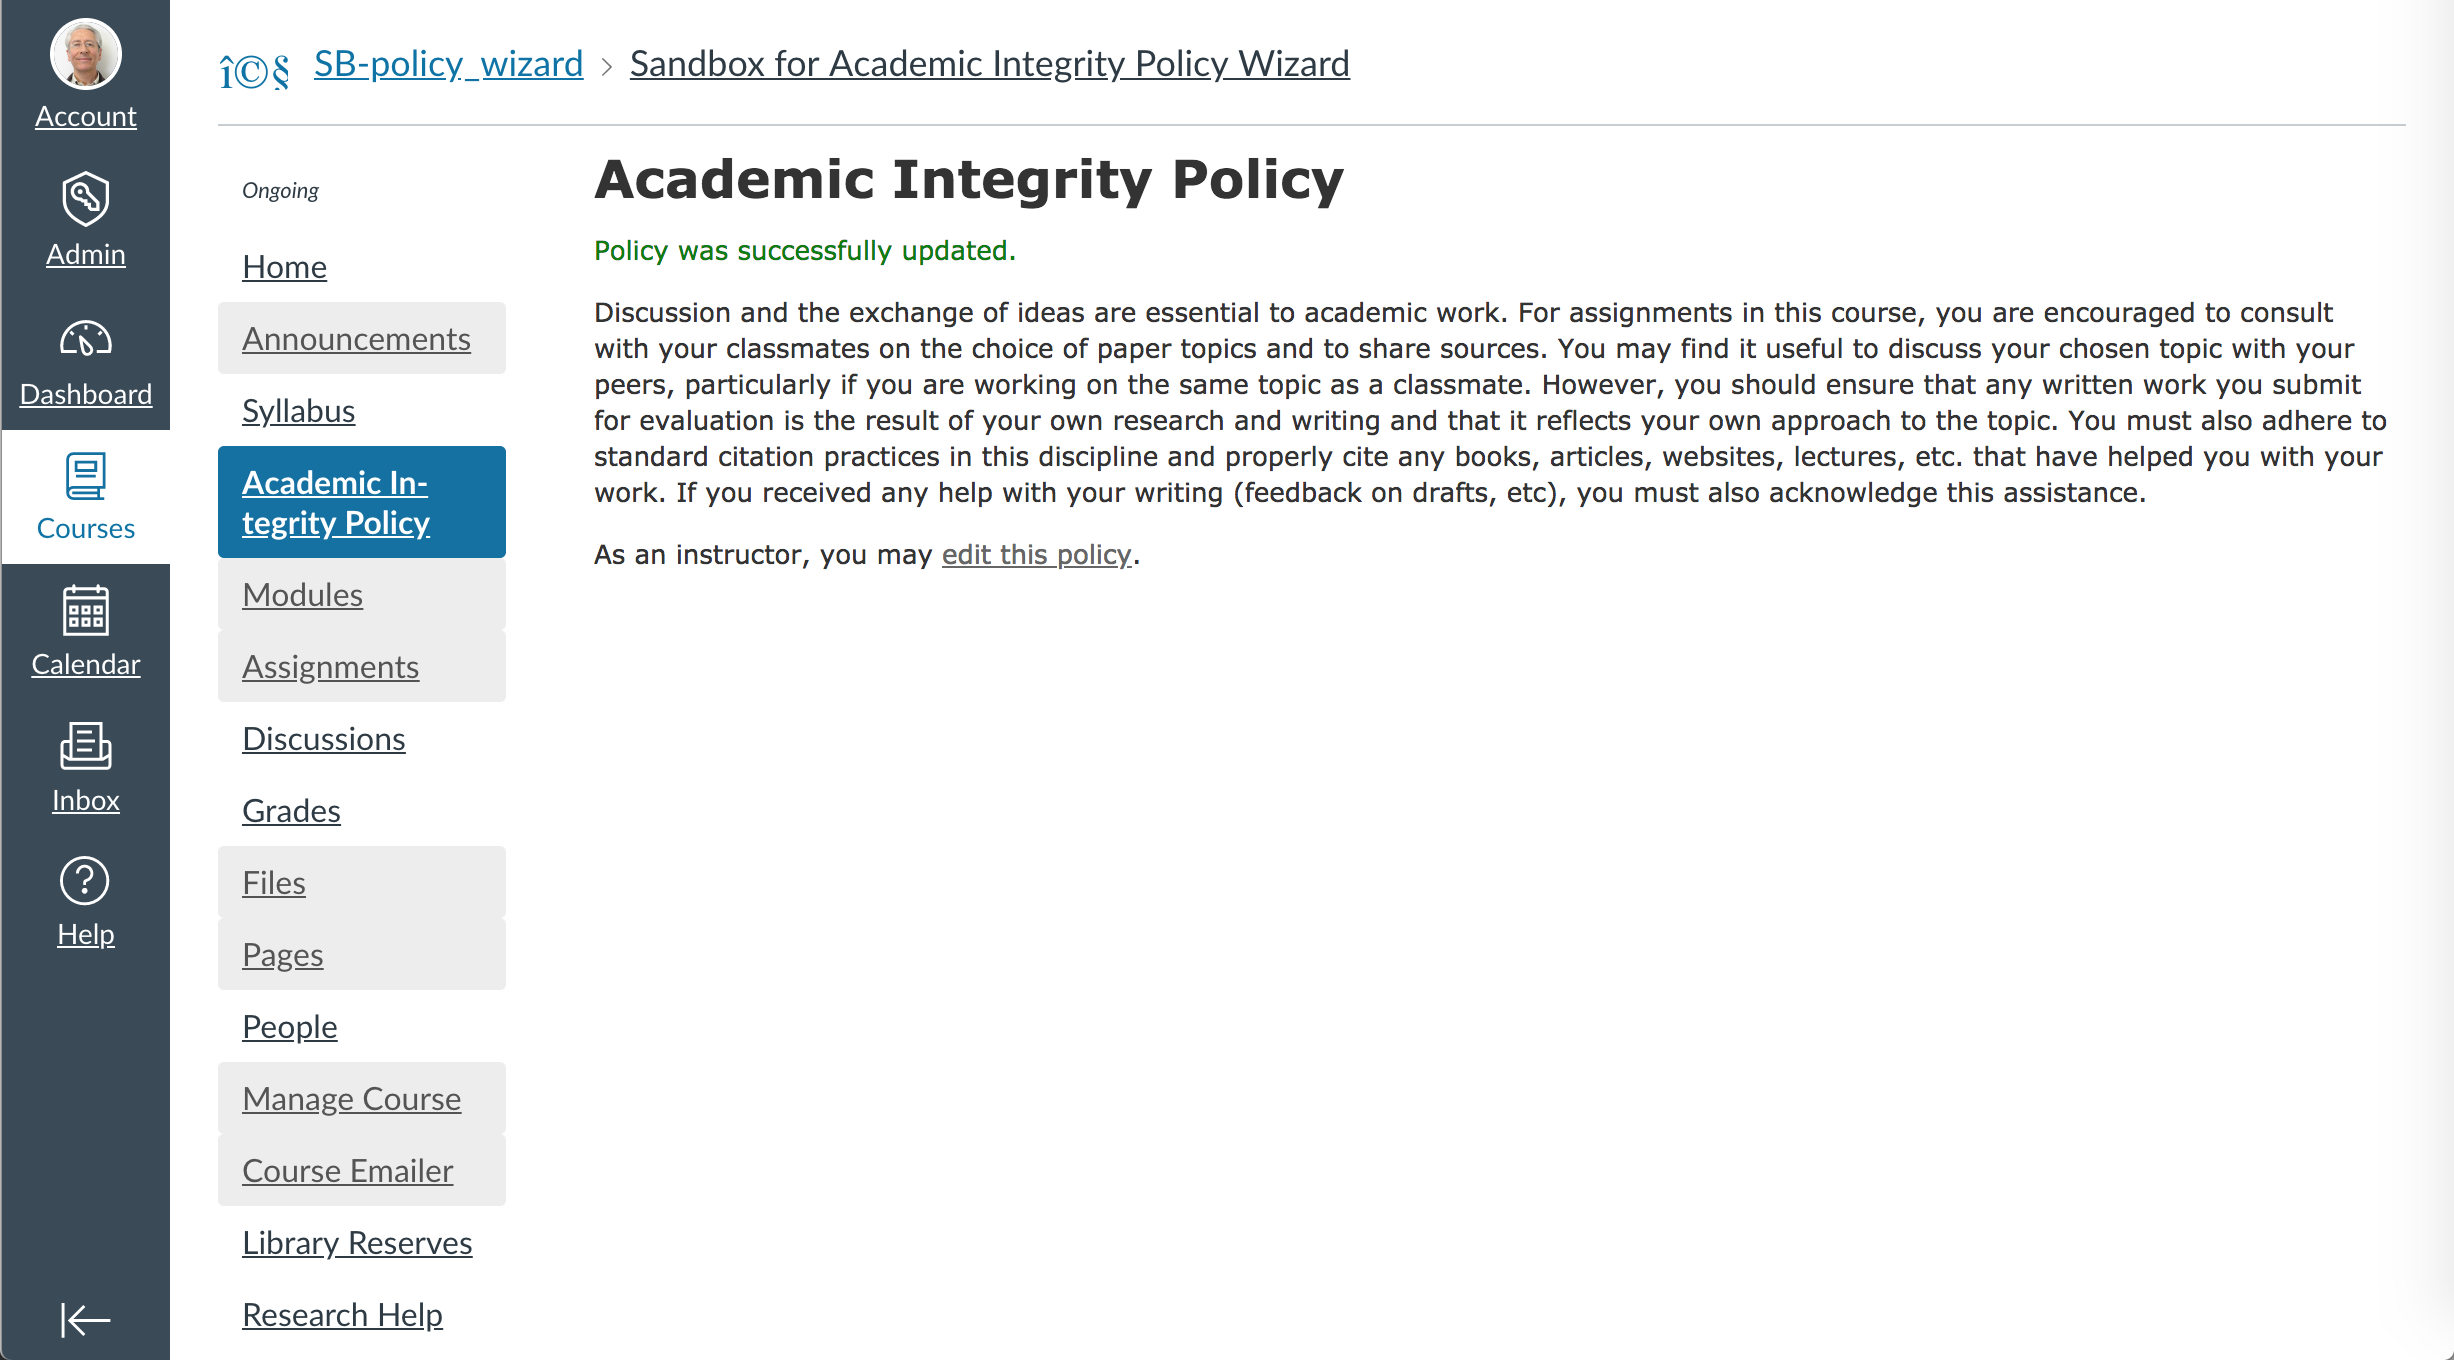
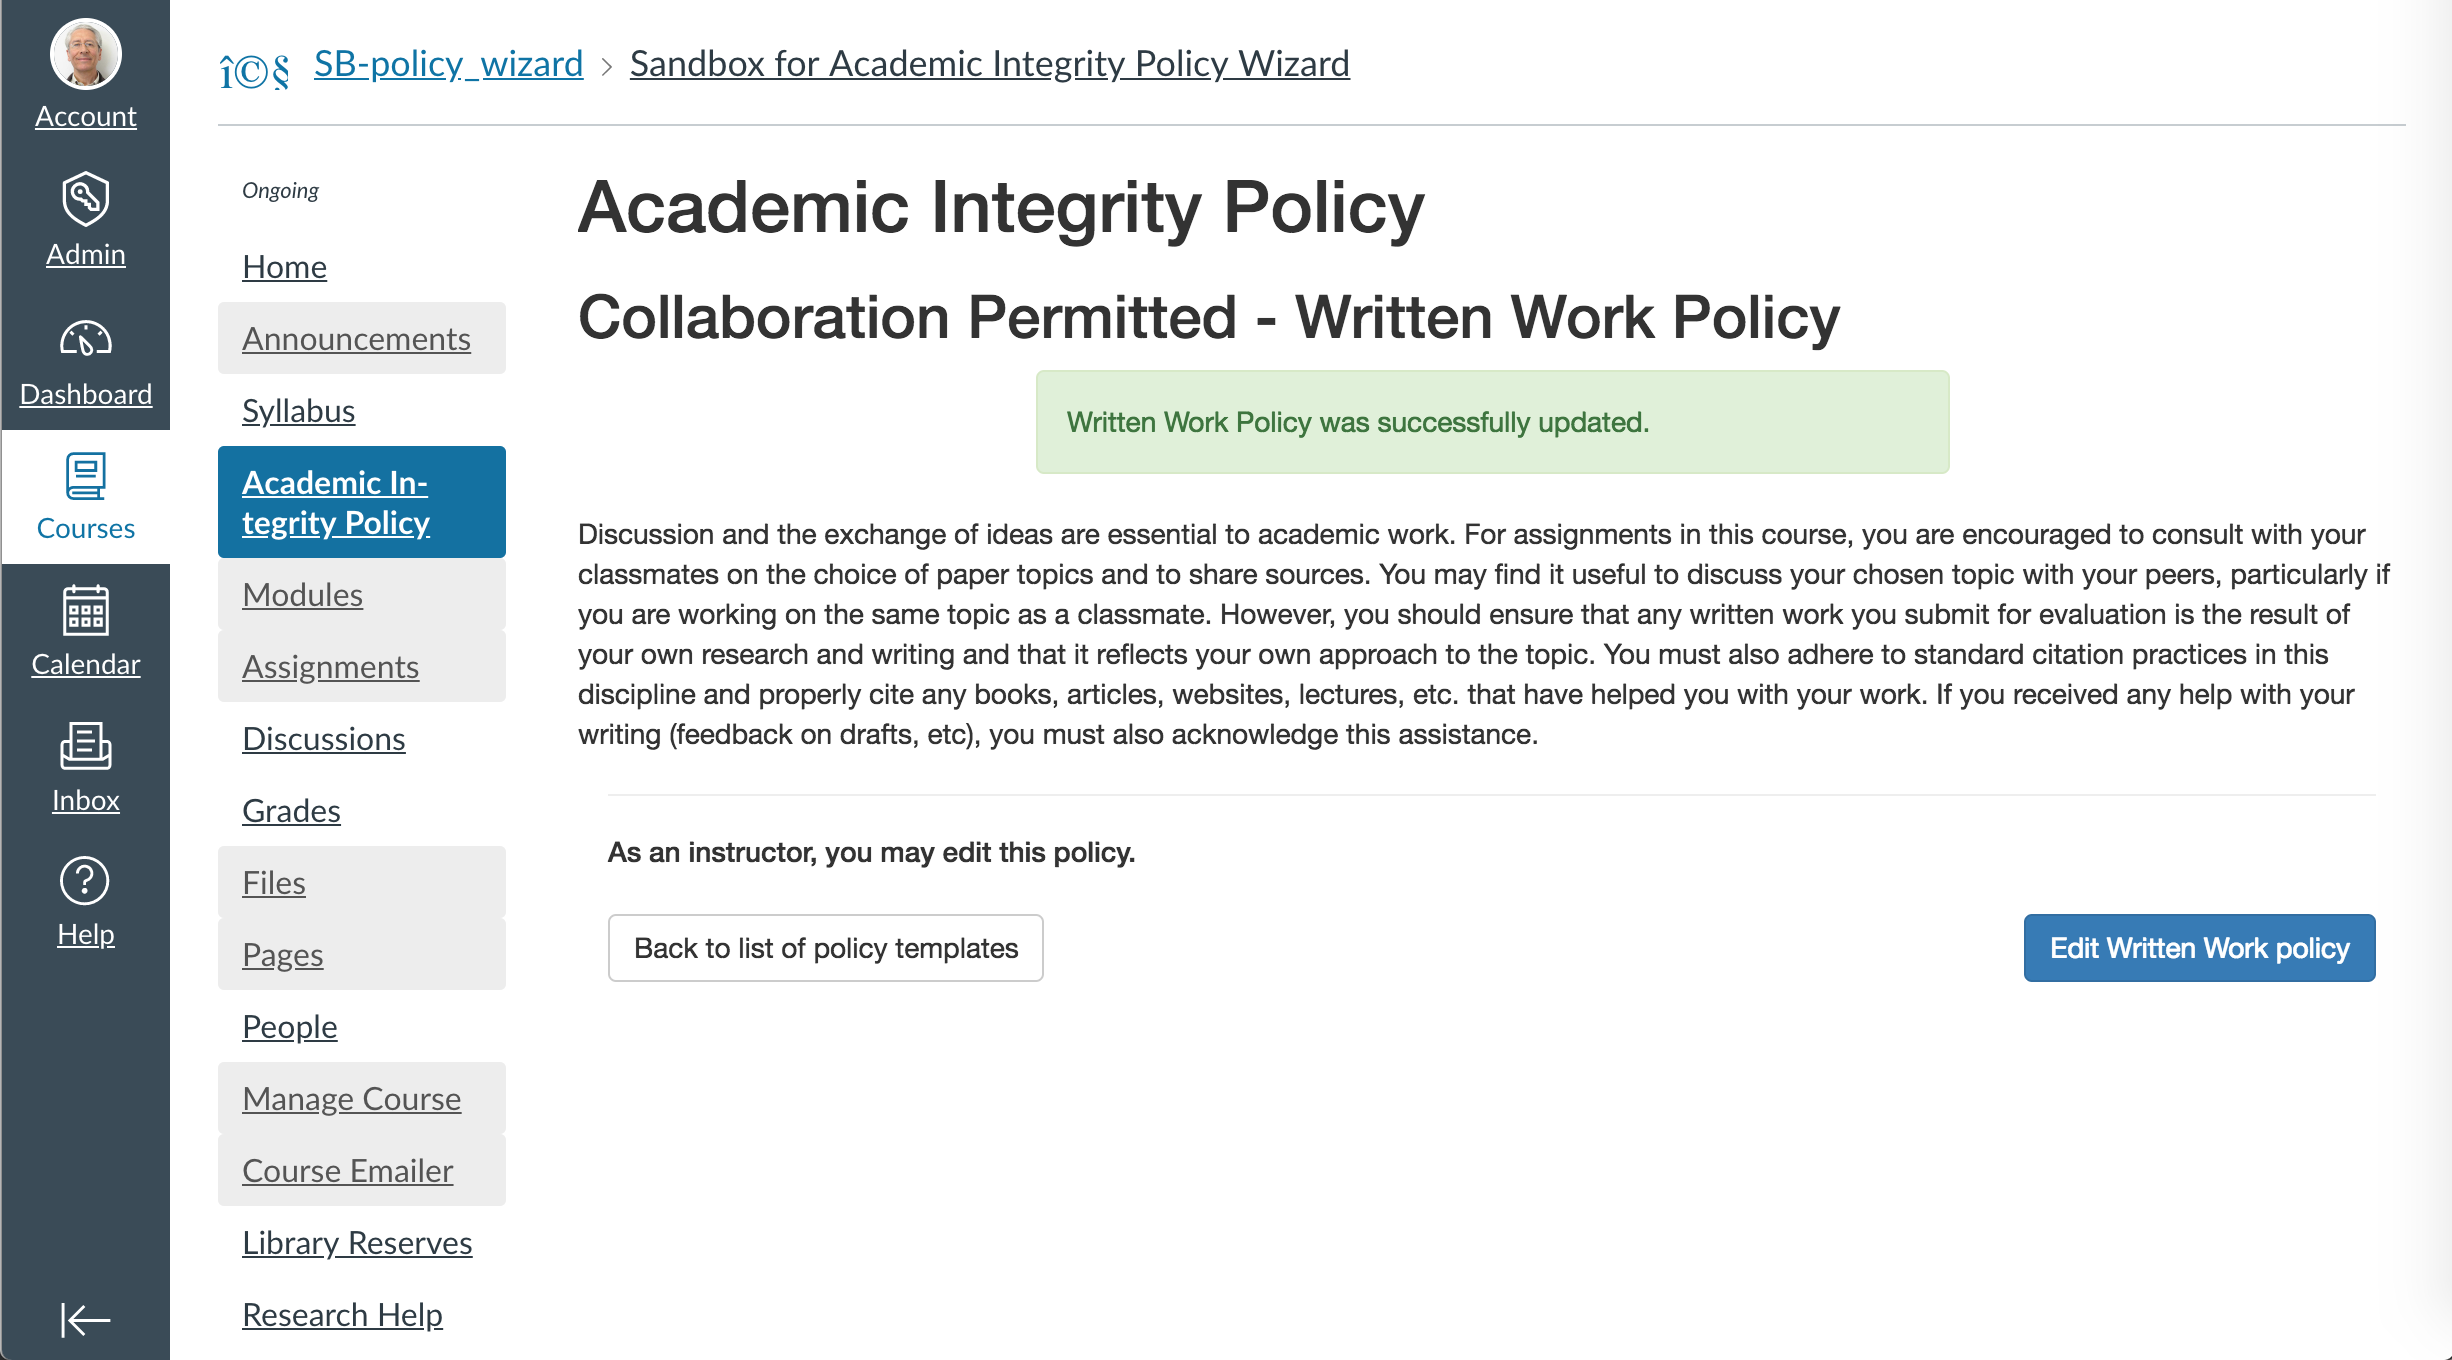
Add files via upload
Screen capture and UI code of proposed interface for published templates

diff --git a/ui/AcademicIntegrityPolicy_published/index.html b/ui/AcademicIntegrityPolicy_published/index.html
@@ -1,10 +1,17 @@
-
+<!--There are 7 UI comments on this commit-->
 <html>
     <head>
         <title>Academic Integrity Policy</title>
+
         <link data-turbolinks-track="true" href="/assets/application-f2426e026c85d83f4d4ec5be1c26ee81.css" media="all" rel="stylesheet">
+
+<!--UI comment #1 - I am leaving here the scripts and meta tags from Canvas. Aside from the Bootstrap and Fontawesome links I added, I am bnot sure we need these what I added-->
         <script data-turbolinks-track="true" src="/assets/application-2671af1f4fe139755faa78265733f653.js"></script>
         <script src="/js/tinymce/tinymce.min.js" type="text/javascript"></script>
+<!-- UI comment #2 - Font Awesome-->
+        <link href="https://maxcdn.bootstrapcdn.com/font-awesome/4.7.0/css/font-awesome.min.css" rel="stylesheet">
+<!-- UI comment #3 - Bootstrap core CSS. I also added Boostrap LS by the end of the body tag -->
+        <link href="https://maxcdn.bootstrapcdn.com/bootstrap/3.3.7/css/bootstrap.min.css" rel="stylesheet">
 
 
         <meta content="authenticity_token" name="csrf-param">
@@ -14,19 +21,36 @@
 
         <h1>Academic Integrity Policy</h1>
 
-        <p id="notice">Policy was successfully updated.</p>
+        <h2>Collaboration Permitted - Written Work Policy</h2>
 
-        <p></p>
+<!--UI comment #4 - using Bootstrap alert-->
+        <div class="alert alert-success" role="alert">Policy was successfully updated.</div>
 
-        <p>
-            Discussion and the exchange of ideas are essential to academic work. For assignments in this course, you are encouraged to consult with your classmates on the choice of paper topics and to share sources. You may find it useful to discuss your chosen topic with your peers, particularly if you are working on the same topic as a classmate. However, you should ensure that any written work you submit for evaluation is the result of your own research and writing and that it reflects your own approach to the topic. You must also adhere to standard citation practices in this discipline and properly cite any books, articles, websites, lectures, etc. that have helped you with your work. If you received any help with your writing (feedback on drafts, etc), you must also acknowledge this assistance.
-        </p>
+<!--UI comment #5 - removing paragraphs used as padding-->
 
-        <p></p>
+<!--UI comment #6 - Using Bootstrap grid -->
+       <div class="row">
+            <div class="col-sm-12">
+                Discussion and the exchange of ideas are essential to academic work. For assignments in this course, you are encouraged to consult with your classmates on the choice of paper topics and to share sources. You may find it useful to discuss your chosen topic with your peers, particularly if you are working on the same topic as a classmate. However, you should ensure that any written work you submit for evaluation is the result of your own research and writing and that it reflects your own approach to the topic. You must also adhere to standard citation practices in this discipline and properly cite any books, articles, websites, lectures, etc. that have helped you with your work. If you received any help with your writing (feedback on drafts, etc), you must also acknowledge this assistance.
+            </div>
+    </div>
 
-        <p>
-          As an instructor, you may <a href="/policies/2333/edit">edit this policy</a>.
-        </p>
+<!--UI comment #7 - Using a heading for visual relevance-->
+        <div class="col-sm-12">
+            <hr>
+            <h5>
+              As an instructor, you may edit this policy.
+            </h5>
+        </div>
+
+        <div class="col-sm-12" style="margin-top: 1em">
+            <a class="btn btn-primary pull-right" href="link/to/policy/edit/page" role="button">
+                Edit Written Work policy
+            </a>
+            <a class="btn btn-default" href="Link/back/to/list/of/policy/templates" role="button">
+                Back to list of policy templates
+            </a>
+        </div>
 
     </body>
 
